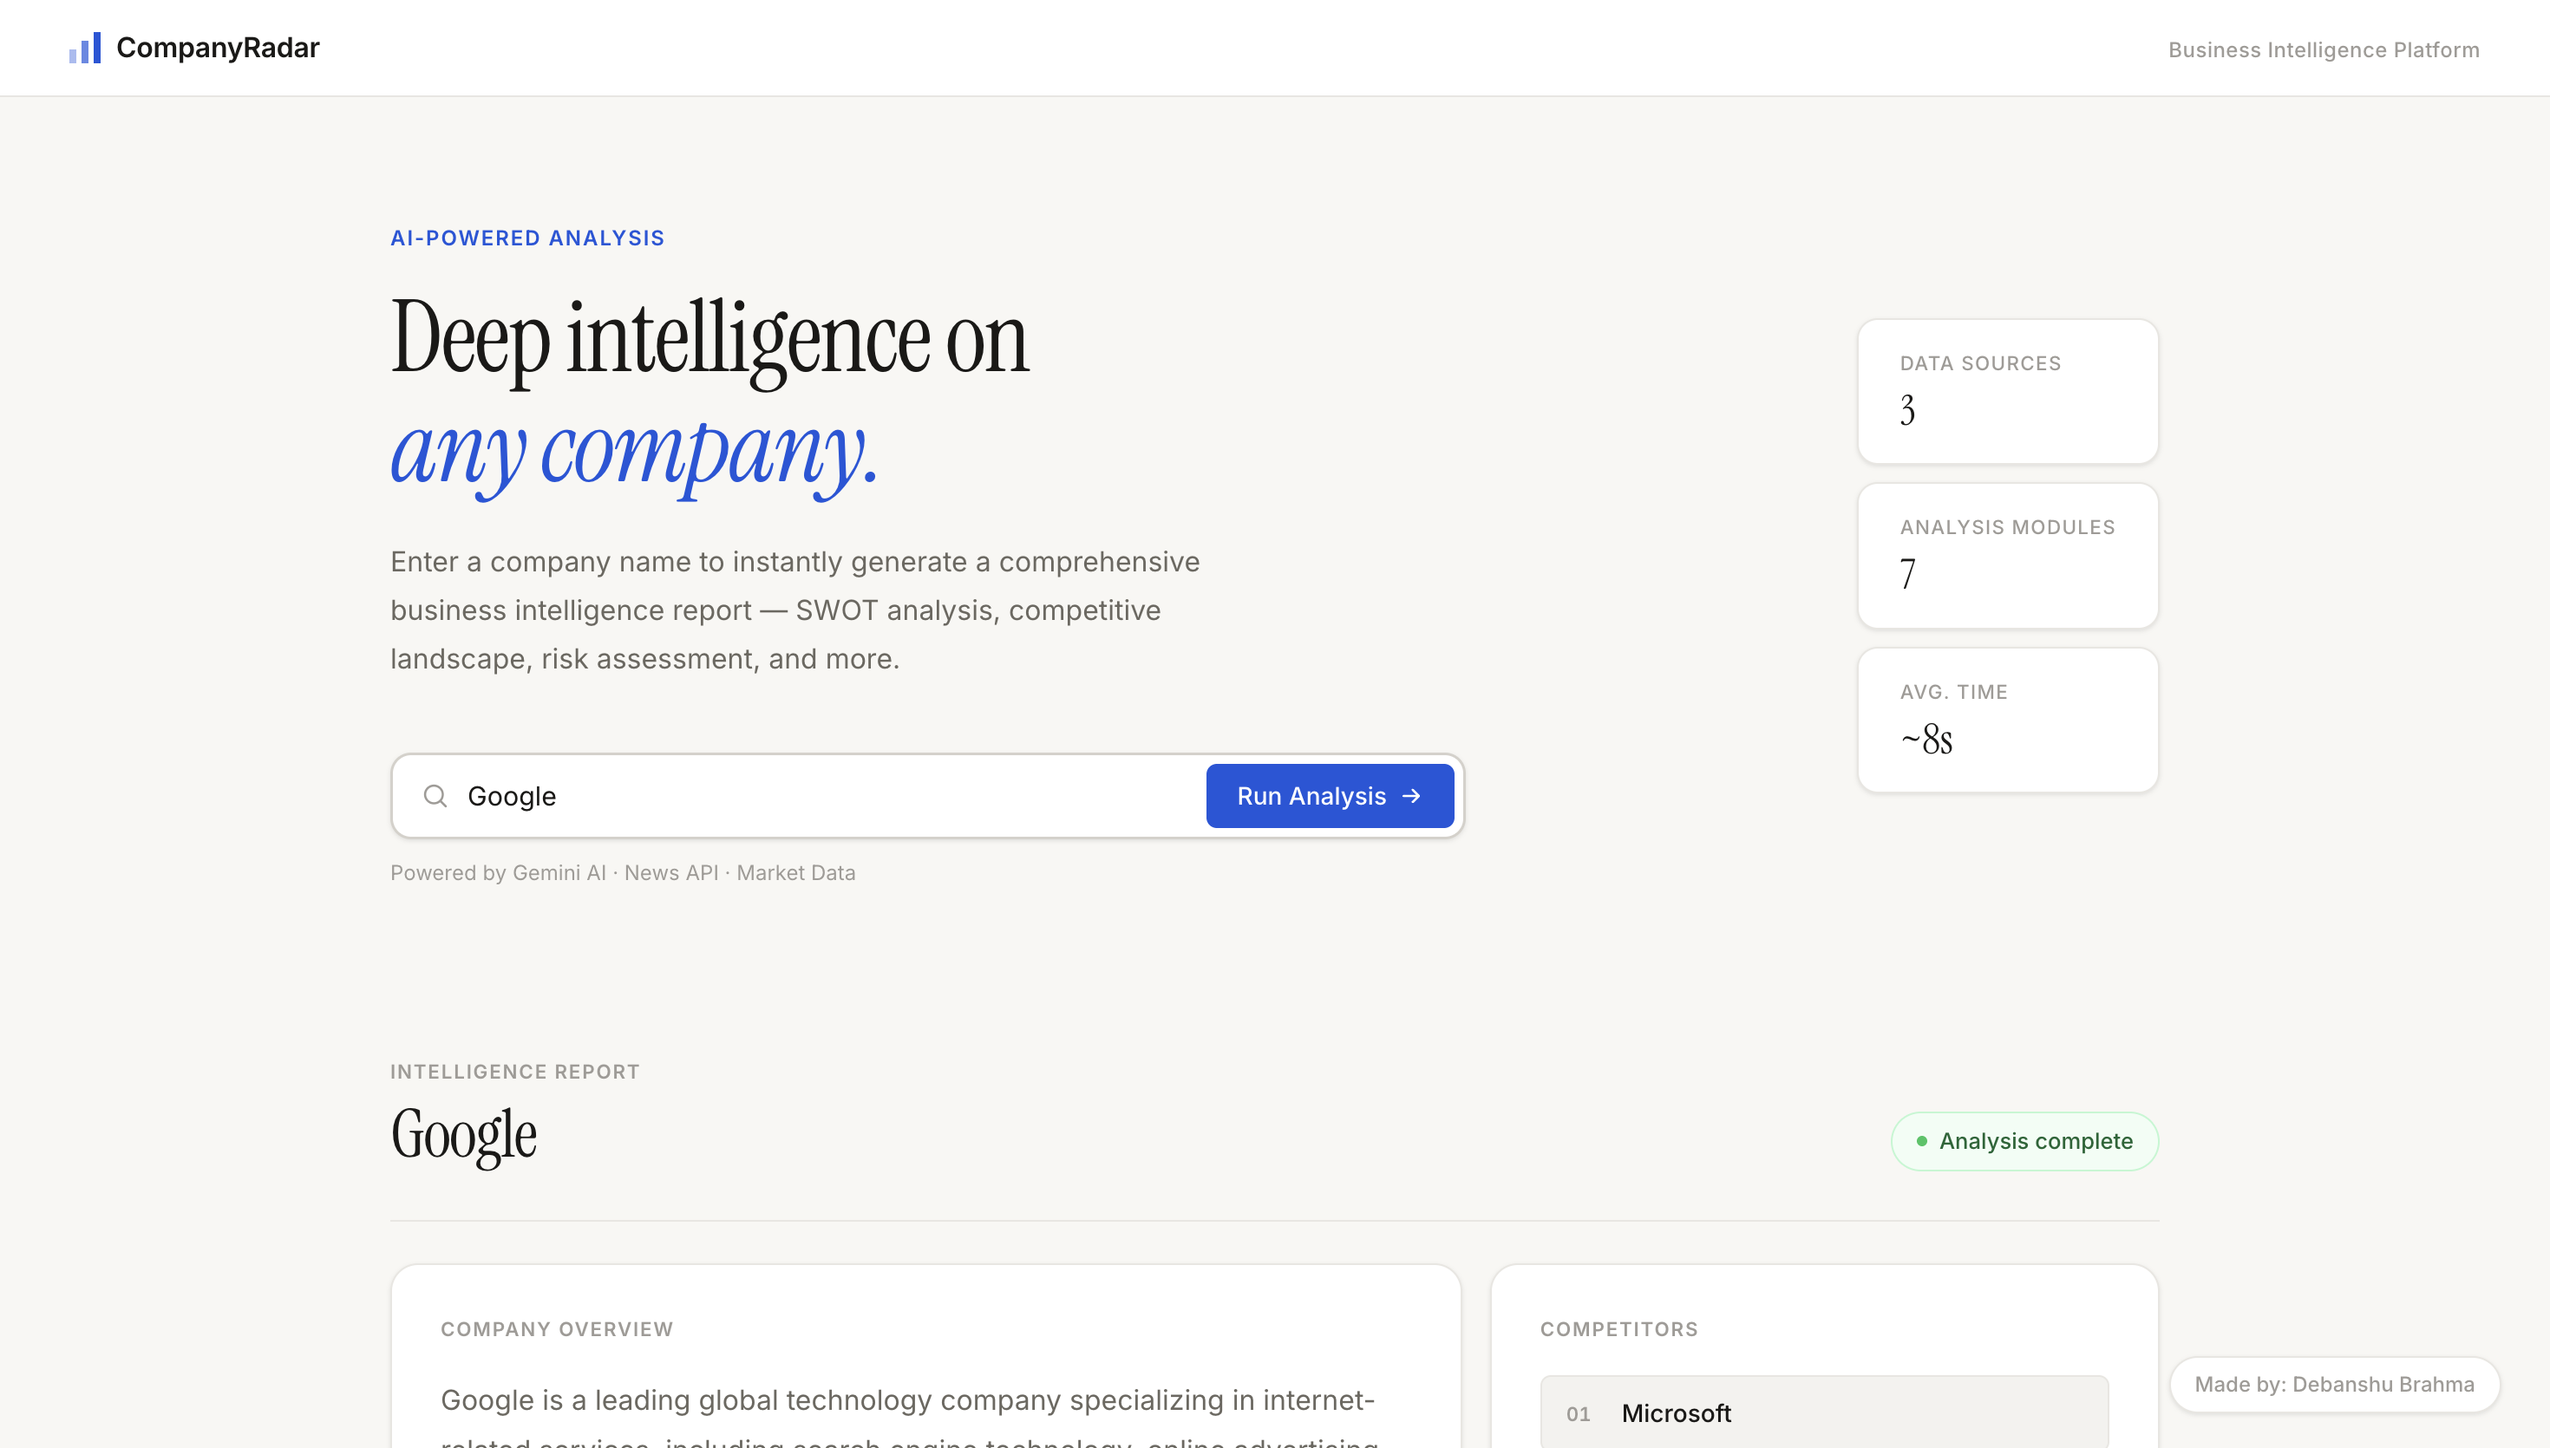
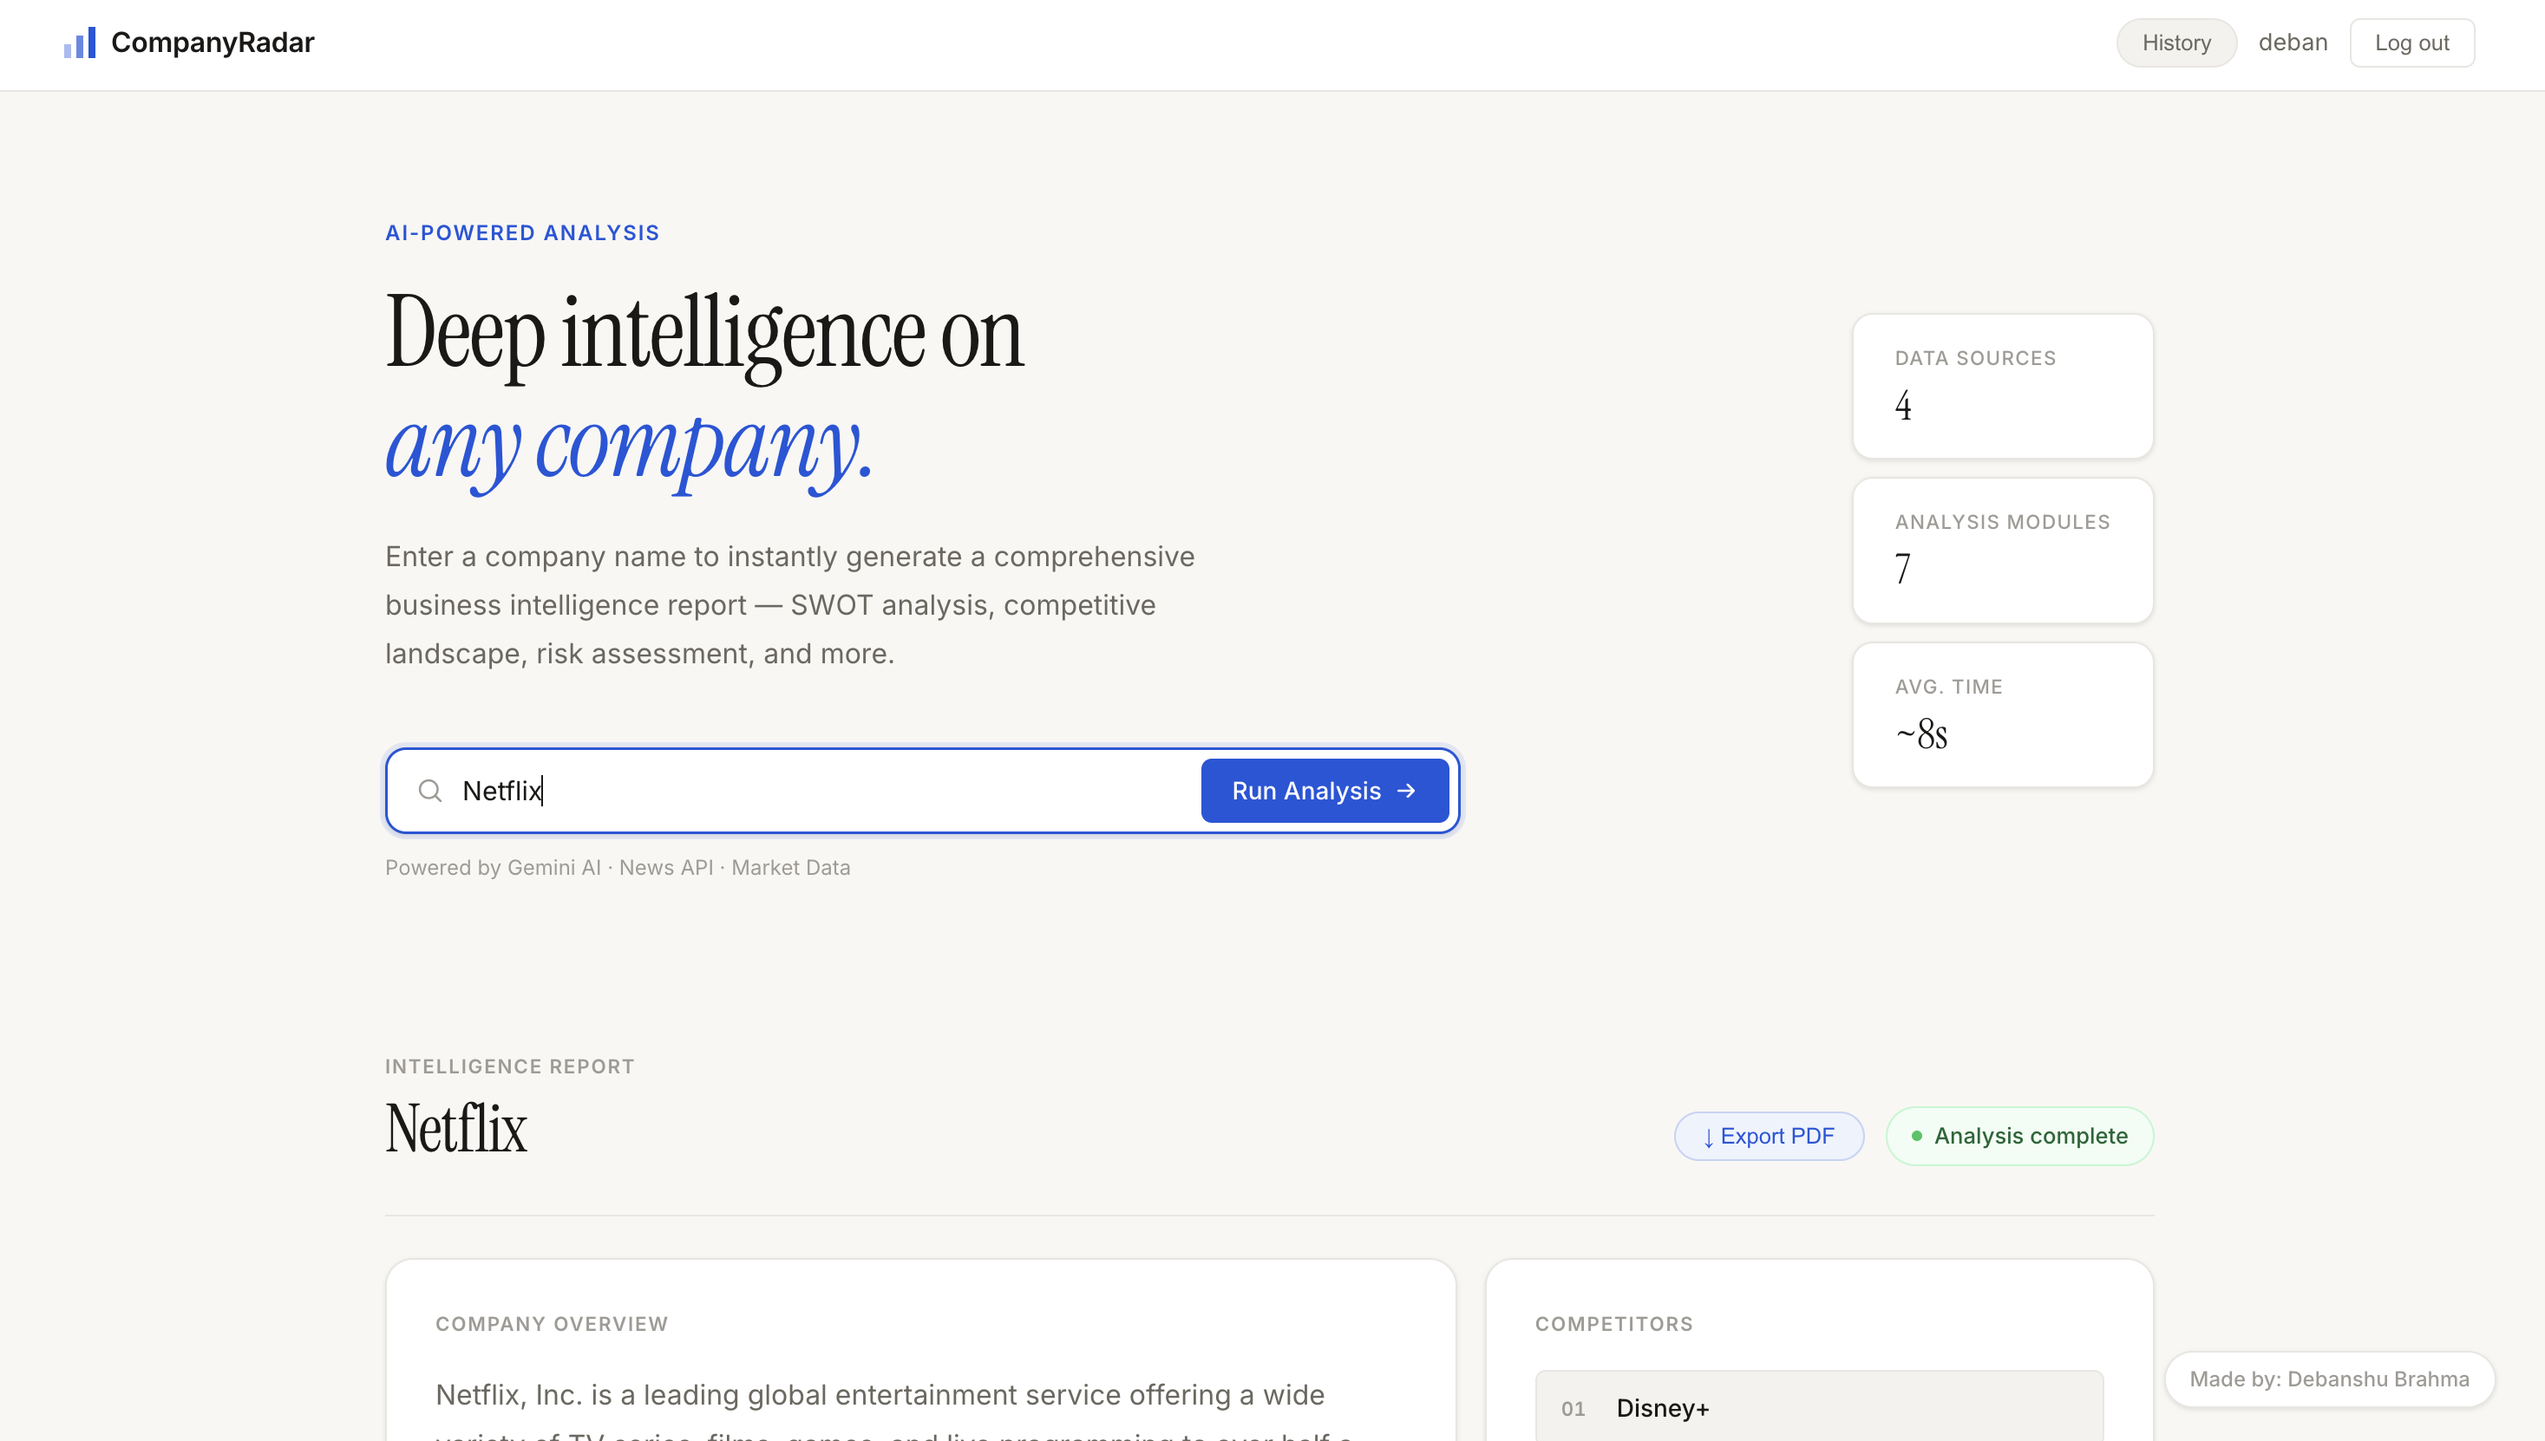
minor changes

diff --git a/README.md b/README.md
@@ -68,6 +68,8 @@ Enter any company name and get a comprehensive BI report in ~8 seconds:
 ![CompanyRadar](ss.jpg)
 ![CompanyRadar](ss1.jpg)
 ![CompanyRadar](ss2.jpg)
+![CompanyRadar](ss5.jpg)
+
 
 ---
 
